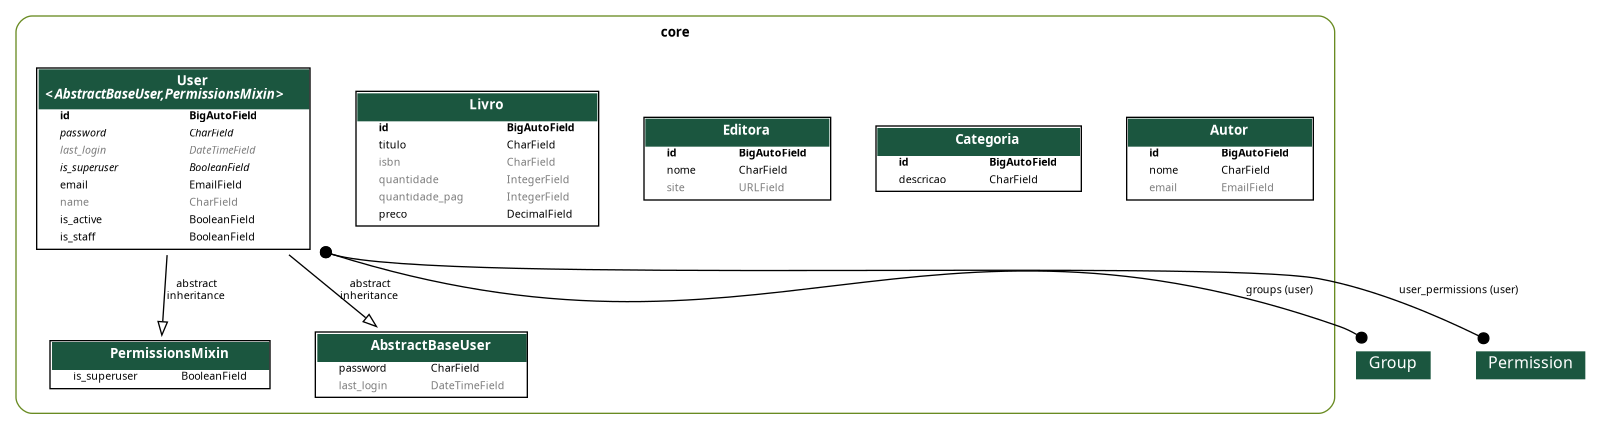
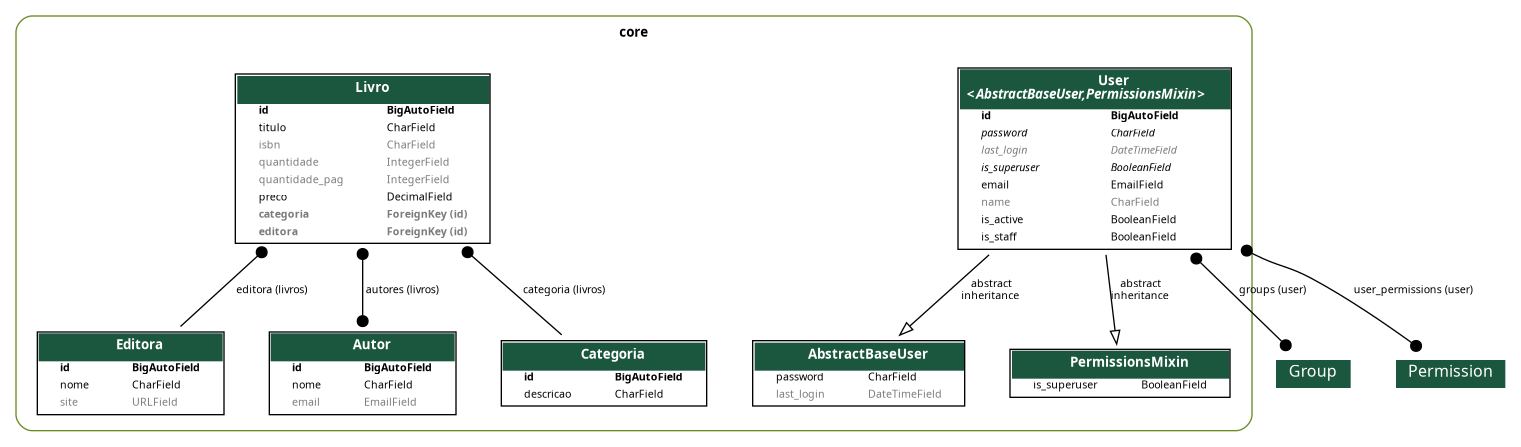
feat: inclusão do relacionamento n para n entre Livro e Autor

Changed region(s): [[0.0, 0.1212, 1.0, 0.9697], [0.0309, 0.0303, 0.8343, 0.0909], [0.4326, 0.6667, 0.5253, 0.697]]

diff --git a/core/models/livro.py b/core/models/livro.py
@@ -1,5 +1,6 @@
 from django.db import models
 
+from .autor import Autor
 from .categoria import Categoria
 from .editora import Editora
 
@@ -12,7 +13,7 @@ class Livro(models.Model):
     preco = models.DecimalField(max_digits=7, decimal_places=2, default=0)
     categoria = models.ForeignKey(Categoria, on_delete=models.PROTECT, related_name='livros', null=True, blank=True)
     editora = models.ForeignKey(Editora, on_delete=models.PROTECT, related_name='livros', null=True, blank=True)
-
+    autores = models.ManyToManyField(Autor, related_name='livros', blank=True)
 
     def __str__(self):
         return f'({self.id}) {self.titulo} ({self.quantidade})'

diff --git a/core/migrations/0009_livro_autores.py b/core/migrations/0009_livro_autores.py
@@ -1,0 +1,18 @@
+# Generated by Django 5.2.12 on 2026-03-23 18:55
+
+from django.db import migrations, models
+
+
+class Migration(migrations.Migration):
+
+    dependencies = [
+        ('core', '0008_livro_editora'),
+    ]
+
+    operations = [
+        migrations.AddField(
+            model_name='livro',
+            name='autores',
+            field=models.ManyToManyField(blank=True, related_name='livros', to='core.autor'),
+        ),
+    ]

diff --git a/core/serializers/autor.py b/core/serializers/autor.py
@@ -1,5 +1,7 @@
 from rest_framework.serializers import ModelSerializer
+
 from core.models import Autor
+
 
 class AutorSerializer(ModelSerializer):
     class Meta:

diff --git a/core/serializers/livro.py b/core/serializers/livro.py
@@ -1,5 +1,7 @@
 from rest_framework.serializers import ModelSerializer
+
 from core.models import Livro
+
 
 class LivroSerializer(ModelSerializer):
     class Meta:
